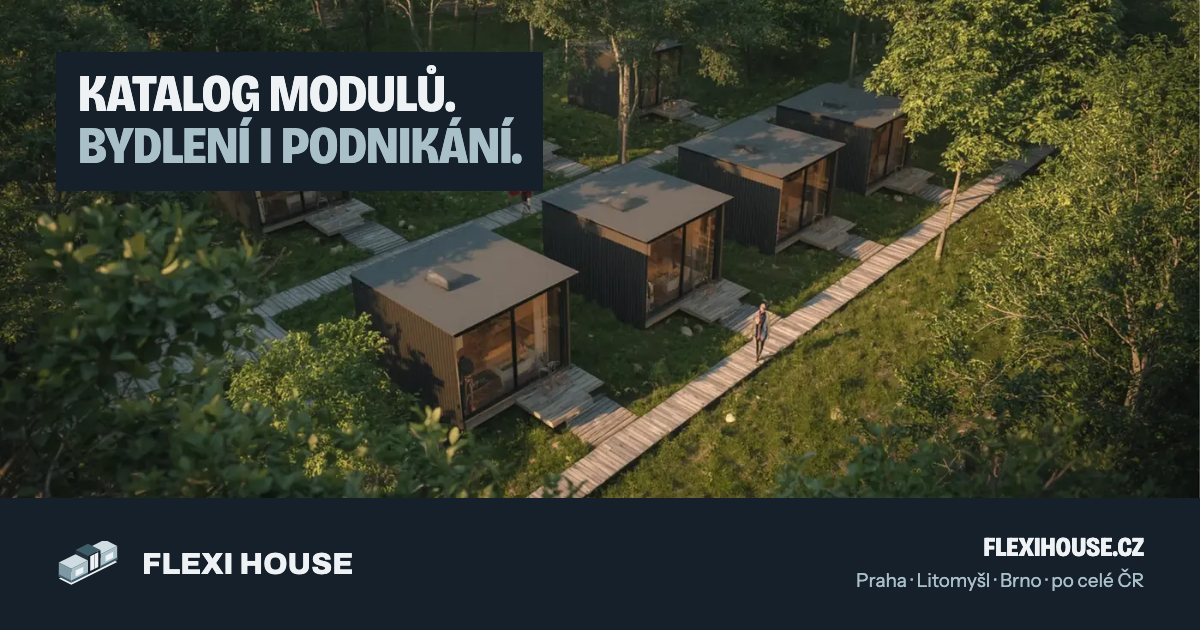
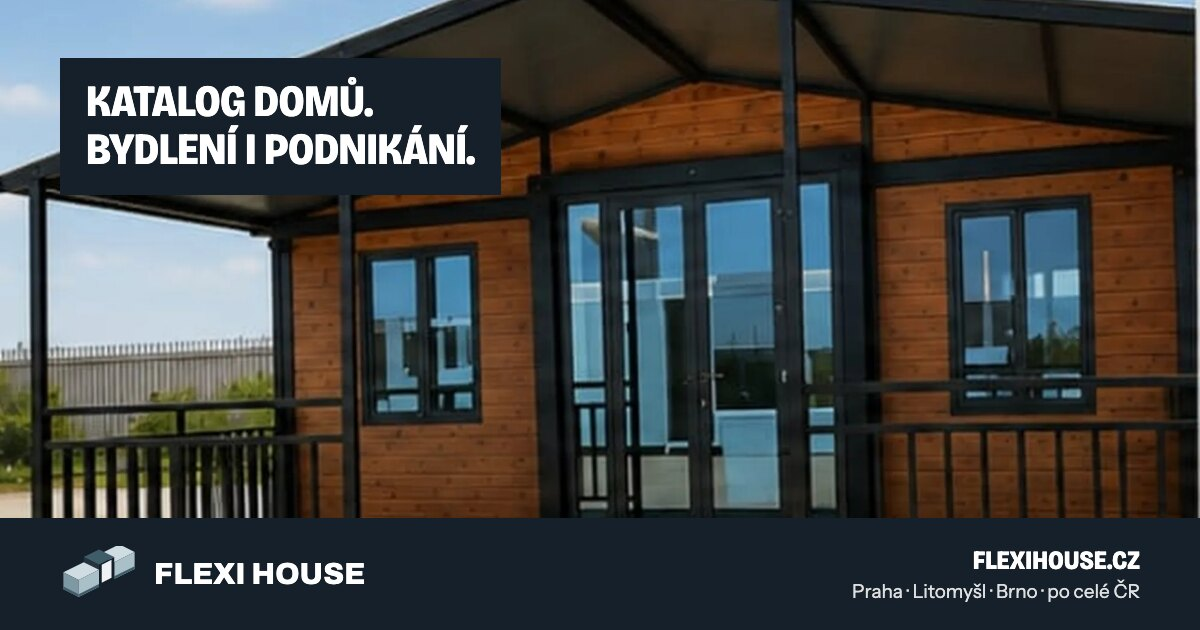
Produktové schéma v katalogu a na produktových stránkách, OG obrázky z reálných fotek
Search Console hlásila neplatné produktové úryvky na katalogu. Katalog
po přestavbě žádné schéma neměl, ta neplatná verze byla ze staré
stránky. Nově: BreadcrumbList, WebPage a ItemList dvou produktů
s Offer (cena, CZK, dostupnost, bez DPH, prodejce WINstores).
Dům na míru v seznamu není, nemá pevnou cenu.

Produktové stránky měly z šablony holý Product, do kterého jsem
omylem přidal druhý. Teď jeden na stránku: @id, reálná čelní fotka,
dostupnost PreOrder u domu a InStock u kanceláře, bez DPH, sku.

OG obrázky pro homepage, katalog, konfigurátor a poptávku nesly
render cizího domu. Přegenerované ze stejné grafiky (Bricolage,
Archivo, ink pás se značkou) s reálnými fotkami: čelní dům,
kuchyň, obývák. Sitemap lastmod na dnešek u změněných stránek.

diff --git a/katalog.html b/katalog.html
@@ -30,6 +30,9 @@
 <link rel="stylesheet" href="assets/flexi.css?v=23">
 <link rel="stylesheet" href="assets/produkt.css?v=2">
 <link rel="stylesheet" href="assets/flexi-poradce.css?v=1">
+<script type="application/ld+json">
+{"@context":"https://schema.org","@graph":[{"@type":"BreadcrumbList","itemListElement":[{"@type":"ListItem","position":1,"name":"Flexi House","item":"https://flexihouse.cz/"},{"@type":"ListItem","position":2,"name":"Katalog"}]},{"@type":"WebPage","name":"Katalog modulárních a mobilních domů | Flexi House","url":"https://flexihouse.cz/katalog","description":"Tři modely: rozkládací dům od 400 000 Kč bez DPH, kancelářský kontejner skladem od 70 000 Kč bez DPH a dům na míru z konfigurátoru.","inLanguage":"cs-CZ","publisher":{"@type":"Organization","name":"WINstores, s.r.o."}},{"@type":"ItemList","name":"Katalog domů Flexi House","itemListOrder":"https://schema.org/ItemListOrderAscending","numberOfItems":2,"itemListElement":[{"@type":"ListItem","position":1,"item":{"@type":"Product","@id":"https://flexihouse.cz/rozkladaci-dum#product","name":"Rozkládací dům Flexi House","url":"https://flexihouse.cz/rozkladaci-dum","image":"https://flexihouse.cz/img/dum-rozlozeny-venku.webp","description":"Rozkládací modulární dům, zhruba 30 m², rozloženo 6,32 × 5,90 m, dvě ložnice, obývací prostor s kuchyňským koutem a koupelna. Přijede složený na šířku 2,20 m a na místě se rozklopí. Cena je za hrubou stavbu bez DPH.","brand":{"@type":"Brand","name":"Flexi House"},"sku":"FH-ROZKLADACI","offers":{"@type":"Offer","url":"https://flexihouse.cz/rozkladaci-dum","price":"400000","priceCurrency":"CZK","availability":"https://schema.org/PreOrder","itemCondition":"https://schema.org/NewCondition","seller":{"@type":"Organization","name":"WINstores, s.r.o."},"valueAddedTaxIncluded":false}}},{"@type":"ListItem","position":2,"item":{"@type":"Product","@id":"https://flexihouse.cz/flexi-office#product","name":"Flexi Office, kancelářský kontejner","url":"https://flexihouse.cz/flexi-office","image":"https://flexihouse.cz/img/flexi-office.webp","description":"Hotový kancelářský kontejner v bílém provedení s tmavým rámem. Deset kusů skladem, odjíždí během několika dní od objednávky. Kupní cena bez DPH.","brand":{"@type":"Brand","name":"Flexi House"},"sku":"FH-OFFICE","offers":{"@type":"Offer","url":"https://flexihouse.cz/flexi-office","price":"70000","priceCurrency":"CZK","availability":"https://schema.org/InStock","itemCondition":"https://schema.org/NewCondition","seller":{"@type":"Organization","name":"WINstores, s.r.o."},"valueAddedTaxIncluded":false}}}]}]}
+</script>
 <style>figure,figcaption,dl,dd{margin:0}
 .kat-uvod{padding-block:clamp(30px,4vw,52px) clamp(28px,4vw,48px)}
 .kat-kde{font-size:.85rem;color:var(--muted)}

diff --git a/glamping.html b/glamping.html
@@ -55,24 +55,7 @@
 .pr-plocha p+p{margin-top:12px}
 @media (max-width:900px){.pr-plocha{grid-template-columns:1fr}}</style>
 <script type="application/ld+json">
-{
-  "@context": "https://schema.org",
-  "@type": "Product",
-  "name": "Glamping domek Flexi House",
-  "description": "Rozkládací modulární dům jako ubytovací jednotka pro glamping. Přijede složený na šířku 2,20 m, na pozemku se rozklopí na zhruba 30 m² obytné plochy a dá se zase odvézt.",
-  "brand": { "@type": "Brand", "name": "Flexi House" },
-  "url": "https://flexihouse.cz/glamping",
-  "image": "https://flexihouse.cz/img/flexi-house-rozkladaci.webp",
-  "sameAs": "https://flexihouse.cz/rozkladaci-dum",
-  "offers": {
-    "@type": "Offer",
-    "price": "400000",
-    "priceCurrency": "CZK",
-    "valueAddedTaxIncluded": false,
-    "availability": "https://schema.org/MadeToOrder",
-    "seller": { "@type": "Organization", "name": "WINstores, s.r.o." }
-  }
-}
+{"@context":"https://schema.org","@type":"Product","name":"Glamping domek Flexi House","description":"Rozkládací modulární dům jako ubytovací jednotka pro glamping. Přijede složený na šířku 2,20 m, na pozemku se rozklopí na zhruba 30 m² obytné plochy a dá se zase odvézt.","brand":{"@type":"Brand","name":"Flexi House"},"url":"https://flexihouse.cz/glamping","image":"https://flexihouse.cz/img/dum-rozlozeny-venku.webp","sameAs":"https://flexihouse.cz/rozkladaci-dum","offers":{"@type":"Offer","price":"400000","priceCurrency":"CZK","valueAddedTaxIncluded":false,"availability":"https://schema.org/PreOrder","seller":{"@type":"Organization","name":"WINstores, s.r.o."},"url":"https://flexihouse.cz/glamping","itemCondition":"https://schema.org/NewCondition"},"@id":"https://flexihouse.cz/glamping#product","sku":"FH-ROZKLADACI-GLAMPING"}
 </script>
 </head>
 <body>

diff --git a/rozkladaci-dum.html b/rozkladaci-dum.html
@@ -35,23 +35,7 @@
 </script>
 <style>figure,figcaption,dl,dd{margin:0}</style>
 <script type="application/ld+json">
-{
-  "@context": "https://schema.org",
-  "@type": "Product",
-  "name": "Rozkládací dům Flexi House",
-  "description": "Modulární rozkládací dům. Přijede složený na šířku 2,20 m, na místě se rozklopí na zhruba 30 m² obytné plochy se dvěma ložnicemi.",
-  "brand": { "@type": "Brand", "name": "Flexi House" },
-  "url": "https://flexihouse.cz/rozkladaci-dum",
-  "image": "https://flexihouse.cz/img/flexi-house-patky.webp",
-  "offers": {
-    "@type": "Offer",
-    "price": "400000",
-    "priceCurrency": "CZK",
-    "valueAddedTaxIncluded": false,
-    "availability": "https://schema.org/InStock",
-    "seller": { "@type": "Organization", "name": "WINstores, s.r.o." }
-  }
-}
+{"@context":"https://schema.org","@type":"Product","name":"Rozkládací dům Flexi House","description":"Modulární rozkládací dům. Přijede složený na šířku 2,20 m, na místě se rozklopí na zhruba 30 m² obytné plochy se dvěma ložnicemi.","brand":{"@type":"Brand","name":"Flexi House"},"url":"https://flexihouse.cz/rozkladaci-dum","image":"https://flexihouse.cz/img/dum-rozlozeny-venku.webp","offers":{"@type":"Offer","price":"400000","priceCurrency":"CZK","valueAddedTaxIncluded":false,"availability":"https://schema.org/PreOrder","seller":{"@type":"Organization","name":"WINstores, s.r.o."},"url":"https://flexihouse.cz/rozkladaci-dum","itemCondition":"https://schema.org/NewCondition"},"@id":"https://flexihouse.cz/rozkladaci-dum#product","sku":"FH-ROZKLADACI"}
 </script>
 </head>
 <body>

diff --git a/flexi-office.html b/flexi-office.html
@@ -35,23 +35,7 @@
 </script>
 <style>figure,figcaption,dl,dd{margin:0}</style>
 <script type="application/ld+json">
-{
-  "@context": "https://schema.org",
-  "@type": "Product",
-  "name": "Flexi Office, kancelářský kontejner",
-  "description": "Kancelářský kontejner na práci. Deset kusů skladem, dodání několik dní od objednávky.",
-  "brand": { "@type": "Brand", "name": "Flexi House" },
-  "url": "https://flexihouse.cz/flexi-office",
-  "image": "https://flexihouse.cz/img/flexi-office.webp",
-  "offers": {
-    "@type": "Offer",
-    "price": "70000",
-    "priceCurrency": "CZK",
-    "valueAddedTaxIncluded": false,
-    "availability": "https://schema.org/InStock",
-    "seller": { "@type": "Organization", "name": "WINstores, s.r.o." }
-  }
-}
+{"@context":"https://schema.org","@type":"Product","name":"Flexi Office, kancelářský kontejner","description":"Kancelářský kontejner na práci. Deset kusů skladem, dodání několik dní od objednávky.","brand":{"@type":"Brand","name":"Flexi House"},"url":"https://flexihouse.cz/flexi-office","image":"https://flexihouse.cz/img/flexi-office.webp","offers":{"@type":"Offer","price":"70000","priceCurrency":"CZK","valueAddedTaxIncluded":false,"availability":"https://schema.org/InStock","seller":{"@type":"Organization","name":"WINstores, s.r.o."},"url":"https://flexihouse.cz/flexi-office","itemCondition":"https://schema.org/NewCondition"},"@id":"https://flexihouse.cz/flexi-office#product","sku":"FH-OFFICE"}
 </script>
 </head>
 <body>
